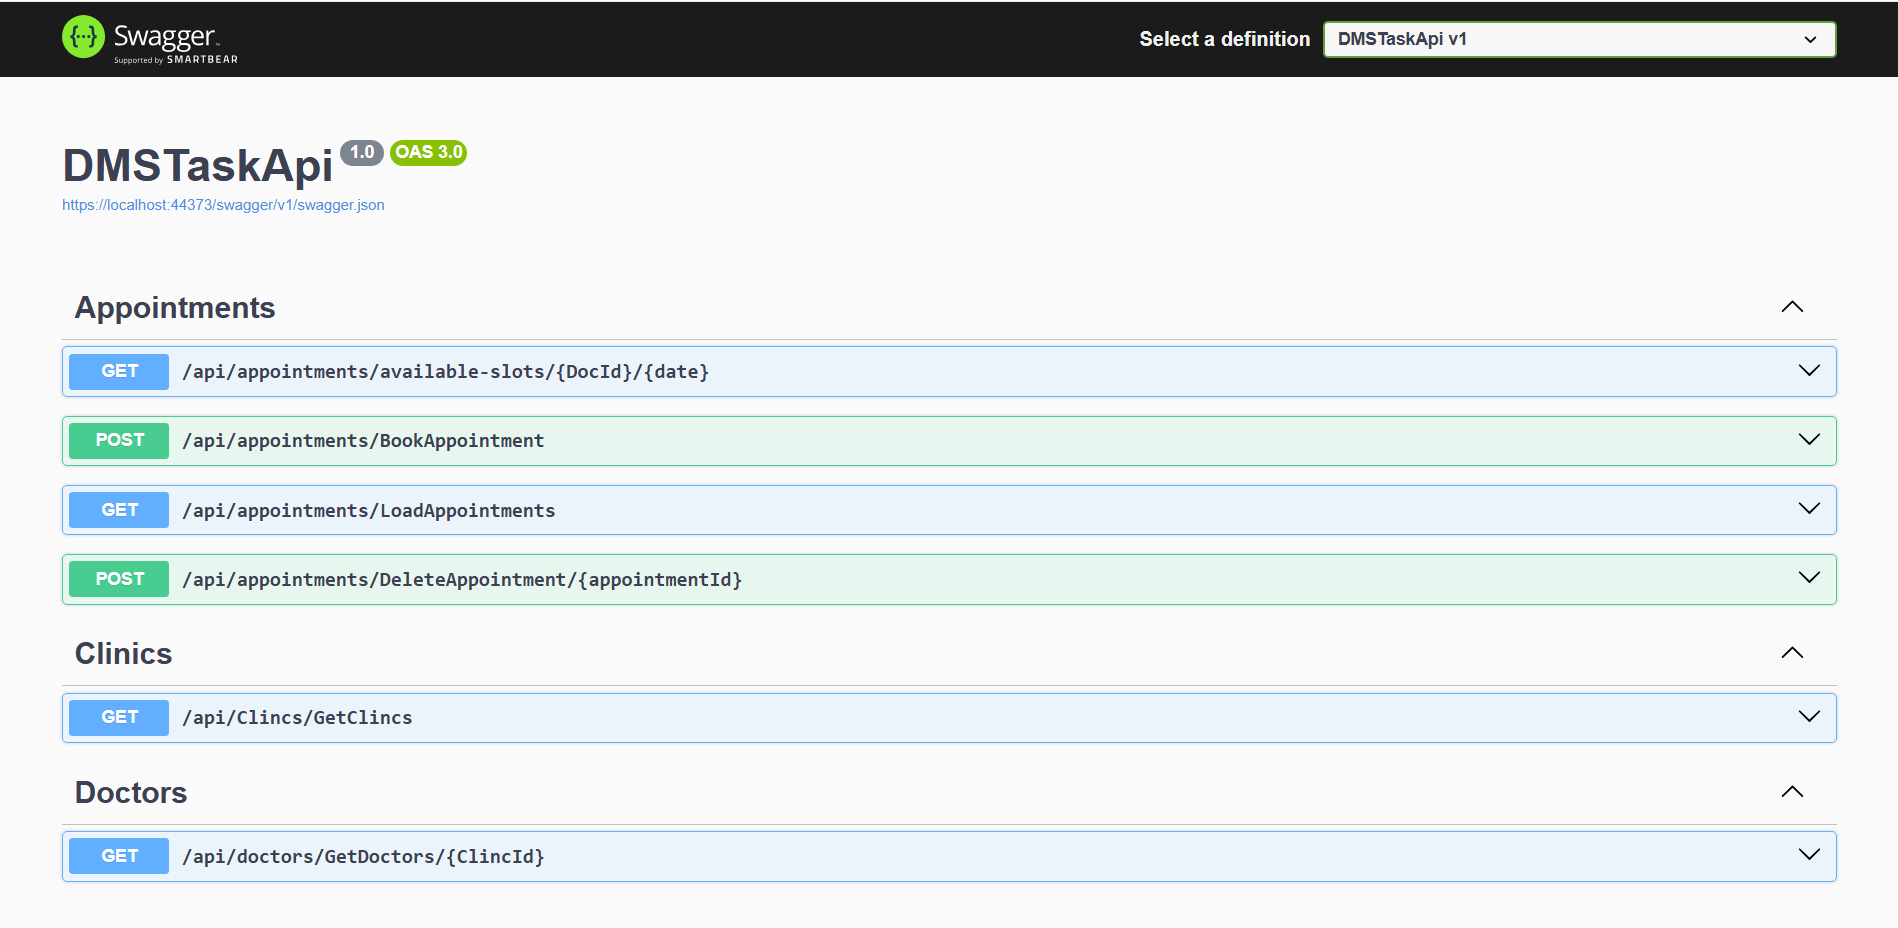
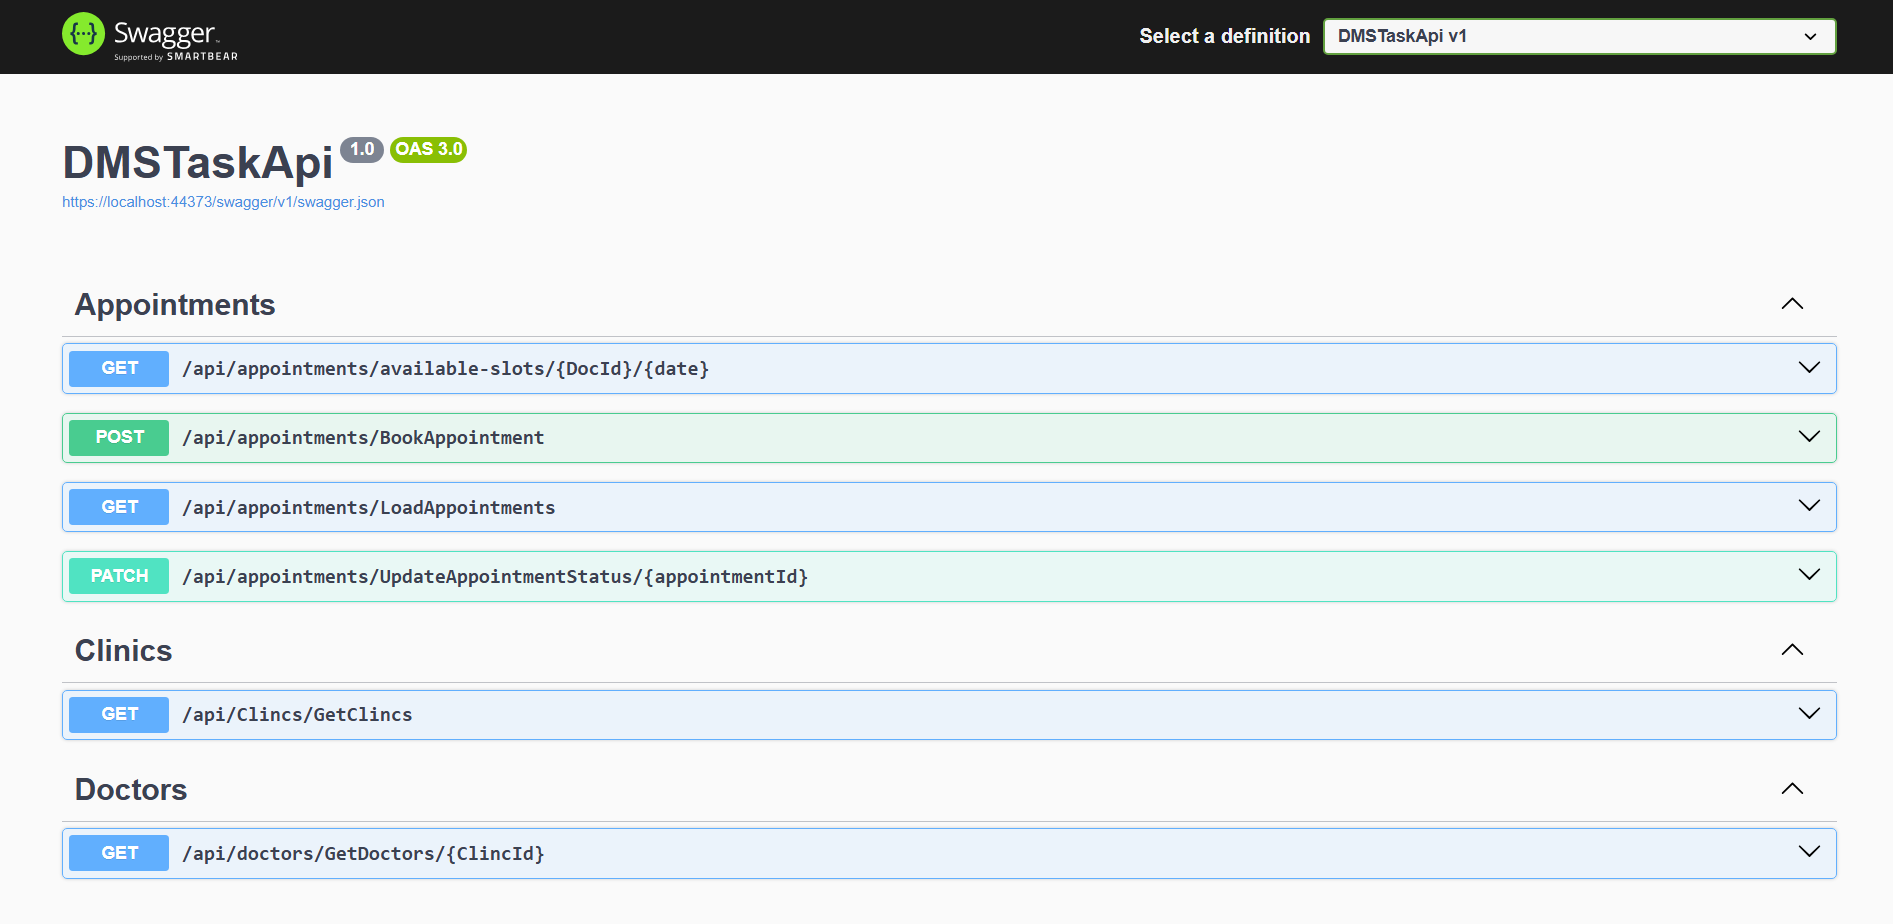
Patch

diff --git a/DMS_Tasks/Task 2/DMS-TaskUi/src/app/secretary-appointment/secretary-appointment.service.ts b/DMS_Tasks/Task 2/DMS-TaskUi/src/app/secretary-appointment/secretary-appointment.service.ts
@@ -33,9 +33,9 @@ export class SecretaryAppointmentService {
   getAppointments(): Observable<any> {
     return this.http.get(`${this.apiUrl}/appointments/LoadAppointments`);
   }
-  deleteAppointment(appointmentId: number): Observable<any> {
-    return this.http.post(
-      `${this.apiUrl}/appointments/DeleteAppointment/${appointmentId}`,
+  updateAppointmentStatus(appointmentId: number): Observable<any> {
+    return this.http.patch(
+      `${this.apiUrl}/appointments/UpdateAppointmentStatus/${appointmentId}`,
       {}
     );
   }

diff --git a/DMS_Tasks/Task 2/DMS-TaskUi/src/app/secretary-appointment/secretary-appointment.component.html b/DMS_Tasks/Task 2/DMS-TaskUi/src/app/secretary-appointment/secretary-appointment.component.html
@@ -125,7 +125,7 @@
       <ng-container matColumnDef="actions">
         <th mat-header-cell *matHeaderCellDef> Actions </th>
         <td mat-cell *matCellDef="let appointment">
-          <button mat-icon-button color="warn" (click)="deleteAppointment(appointment.appointmentId)"
+          <button mat-icon-button color="warn" (click)="updateAppointmentStatus(appointment.appointmentId)"
             class="delete-button" matTooltip="Delete Appointment">
             <mat-icon class="delete-icon">delete</mat-icon>
           </button>

diff --git a/DMS_Tasks/Task 2/DMS-TaskUi/src/app/secretary-appointment/secretary-appointment.component.ts b/DMS_Tasks/Task 2/DMS-TaskUi/src/app/secretary-appointment/secretary-appointment.component.ts
@@ -143,9 +143,9 @@ export class SecretaryAppointmentComponent implements OnInit {
     );
   }
 
-  deleteAppointment(appointmentId: number) {
+  updateAppointmentStatus(appointmentId: number) {
     if (confirm('Are you sure you want to delete this appointment?')) {
-      this.appointmentService.deleteAppointment(appointmentId).subscribe(
+      this.appointmentService.updateAppointmentStatus(appointmentId).subscribe(
         () => {
           this.loadAppointments();
         },

diff --git a/DMS_Tasks/Task 2/DMSTaskApi/DMSTaskApi/DMSTaskApi/Controllers/AppointmentsController.cs b/DMS_Tasks/Task 2/DMSTaskApi/DMSTaskApi/DMSTaskApi/Controllers/AppointmentsController.cs
@@ -96,7 +96,7 @@ namespace DMSTaskApi.Controllers
 
             return Ok(appointments);
         }
-        [HttpPost("DeleteAppointment/{appointmentId}")]
+        [HttpPatch("UpdateAppointmentStatus/{appointmentId}")]
         public async Task<IActionResult> UpdateAppointmentStatus(int appointmentId)
         {
             var appointment = await _context.Appointments.FirstOrDefaultAsync(a => a.AppointmentId == appointmentId);
@@ -109,7 +109,7 @@ namespace DMSTaskApi.Controllers
             appointment.Status = 1;
             await _context.SaveChangesAsync();
 
-            return Ok("Appointment status updated successfully.");
+            return Ok();
         }
     }
 }
